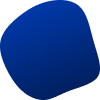
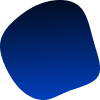
preloadeR

diff --git a/src/less/common/animations.less b/src/less/common/animations.less
@@ -56,12 +56,24 @@
   }
 }
 
-@keyframes rotate {
+@keyframes scaling {
   0% {
-    transform: rotate(0);
+    transform: scale(0.6) translate(-50%, -50%);
+  }
+
+  25% {
+    transform: scale(1) translate(-50%, -50%);
+  }
+
+  50% {
+    transform: scale(0.6) translate(-50%, -50%);
+  }
+
+  75% {
+    transform: scale(1) translate(-50%, -50%);
   }
 
   100% {
-    transform: rotate(360deg);
+    transform: scale(0.6) translate(-50%, -50%);
   }
 }

diff --git a/src/less/common/page.less b/src/less/common/page.less
@@ -73,10 +73,9 @@
       background-image: url("../img/blob.png");
       background-position: 50% 50%;
       background-repeat: no-repeat;
-      transform: translate(-50%, -50%);
       z-index: 1000;
       background-size: 100px 100px;
-      animation: rotate linear infinite 2s;
+      animation: scaling cubic-bezier(0.23, 1.32, 0.51, -0.23) infinite 2s;
     }
   }
 }
